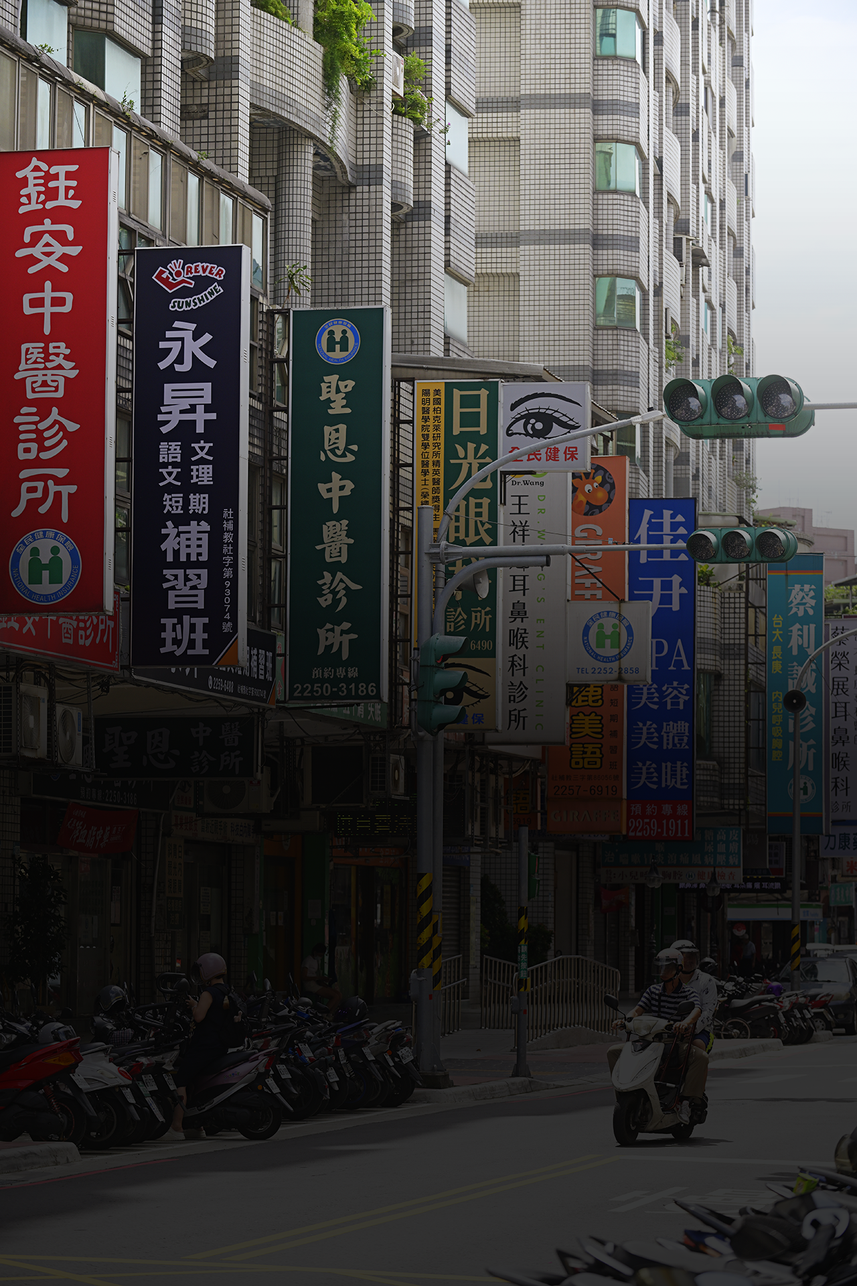
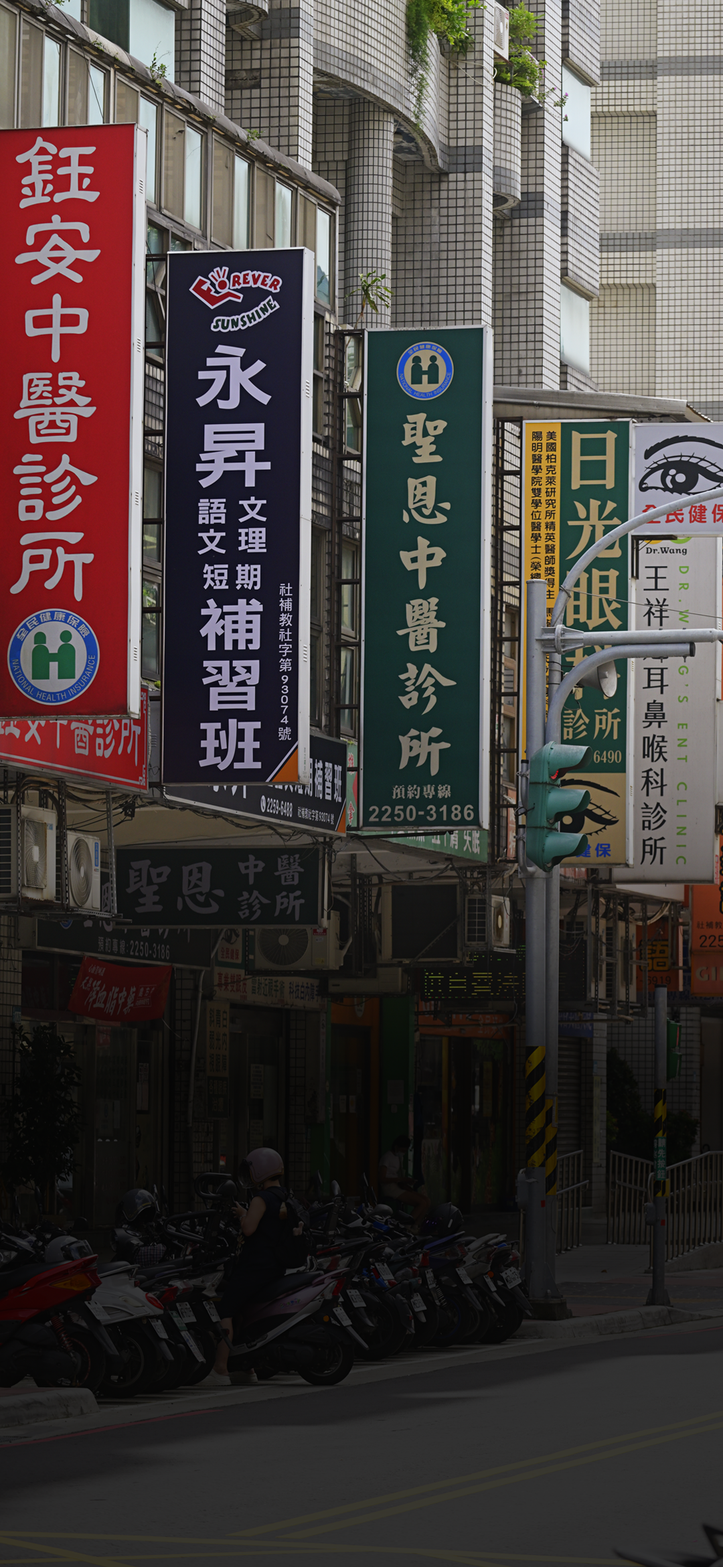
hero

diff --git a/index.html b/index.html
@@ -134,8 +134,8 @@
         <section id="section-banner">
             <div class="banner-block">
                 <picture class="banner-photo">
-                    <source media="(max-width: 768px)" srcset="images/hero-mobile.webp" type="image/webp">
-                    <img src="images/hero-desktop.webp" alt="台北街頭診所招牌林立" width="1920" height="1080" fetchpriority="high">
+                    <source media="(max-width: 768px)" srcset="images/hero-mobile.webp?v=20261028" type="image/webp" width="1080" height="2340">
+                    <img src="images/hero-desktop.webp?v=20261028" alt="台北街頭診所招牌林立" width="2560" height="1440" fetchpriority="high">
                 </picture>
                 <div class="container flex">
                     <div class="banner-title flex flex-col items-center">
@@ -959,7 +959,7 @@
                         <img src="images/article-03.webp?v=2" alt="醫療崩盤倒數，X世代醫師憂：我們正在失去救命的能力" width="1200" height="750">
                     </div>
                 </a>
-                <a class="related-item" href="#">
+                <a class="related-item" href="https://www.commonhealth.com.tw/article/94807">
                     <div class="related-copy">
                         <p class="related-kicker">失衡之後，台灣準備怎麼辦？</p>
                         <h3 class="related-title">診所愈開愈多，醫院卻留不住人：<br>台灣如何回應醫療失衡？</h3>
